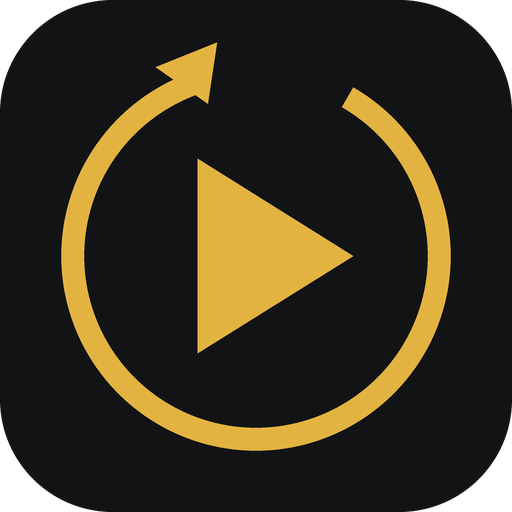
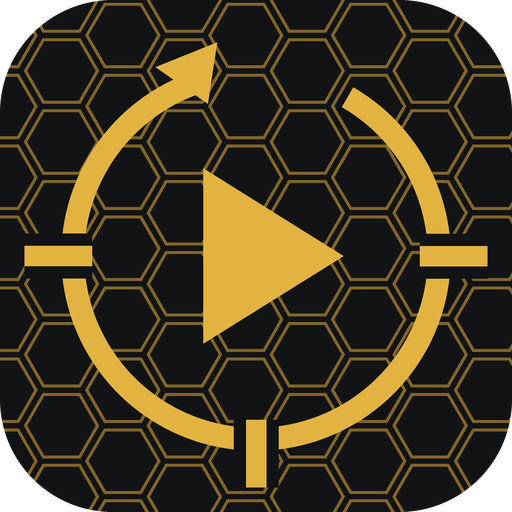
Nouveau nom (VitaCS Replays) et nouvelle icône
Claude-Session: https://claude.ai/code/session_016W72g8RZw3233aXjoM7bYN

Changed region(s): [[0.0, 0.0, 1.0, 1.0]]

diff --git a/index.html b/index.html
@@ -8,7 +8,7 @@
 <link rel="icon" href="icons/icon-192.png" type="image/png">
 <link rel="apple-touch-icon" href="icons/apple-touch-icon.png">
 <meta name="theme-color" content="#121315">
-<title>Replays Vitality</title>
+<title>VitaCS Replays</title>
 <script>
   // Anciens liens du lecteur (index.html?v=...) : redirection vers player.html
   if (/[?&]v=/.test(location.search)) location.replace("player.html" + location.search);
@@ -134,7 +134,7 @@ body.watching.wide .reopen { display: block; position: fixed; right: max(8px, en
 <main>
   <header>
     <div class="eyebrow">CS2 · sans spoiler</div>
-    <h1>Replays Vitality</h1>
+    <h1>VitaCS Replays</h1>
     <p class="lede">Les matchs à venir et les liens Twitch des replays, calés au début de la rencontre. Aucun score, aucun adversaire, aucune phase.</p>
     <div class="status" id="status">Chargement…</div>
     <div class="account" id="account"></div>

diff --git a/player.html b/player.html
@@ -8,7 +8,7 @@
 <link rel="icon" href="icons/icon-192.png" type="image/png">
 <link rel="apple-touch-icon" href="icons/apple-touch-icon.png">
 <meta name="theme-color" content="#121315">
-<title>Replay sans spoiler</title>
+<title>VitaCS Replays · lecteur</title>
 <style>
   :root {
     --bg: #0d0e10; --panel: #17181c; --fg: #ecebe6; --muted: #8f929a; --line: #2a2c31; --accent: #e3b341; --accent-ink: #17181b;
@@ -121,7 +121,7 @@
   La durée totale de la vidéo n'est jamais affichée.
 </p>
 
-<p class="empty" id="empty" hidden>Ouvre ce lecteur depuis la page Replays Vitality : il faut un lien de la forme <code>?v=&lt;id de la vidéo&gt;&amp;t=1h02m03s</code>.</p>
+<p class="empty" id="empty" hidden>Ouvre ce lecteur depuis la page VitaCS Replays : il faut un lien de la forme <code>?v=&lt;id de la vidéo&gt;&amp;t=1h02m03s</code>.</p>
 
 <script>
 (function () {

diff --git a/sync.js b/sync.js
@@ -77,7 +77,7 @@ async function initMessaging(app) {
     // Page ouverte : Firebase ne montre rien tout seul, on affiche la notification nous-mêmes
     mM.onMessage(messaging, async (p) => {
       const d = p.data || {}; const reg = await swRegister();
-      if (reg && Notification.permission === "granted") reg.showNotification(d.title || "Replays Vitality", { body: d.body || "", icon: "icons/icon-192.png", tag: d.tag || undefined, data: { link: d.link || location.href } });
+      if (reg && Notification.permission === "granted") reg.showNotification(d.title || "VitaCS Replays", { body: d.body || "", icon: "icons/icon-192.png", tag: d.tag || undefined, data: { link: d.link || location.href } });
     });
   } catch (e) {}
 }

diff --git a/firebase-messaging-sw.js b/firebase-messaging-sw.js
@@ -13,7 +13,7 @@ firebase.initializeApp({
 const messaging = firebase.messaging();
 messaging.onBackgroundMessage((p) => {
   const d = p.data || {};
-  return self.registration.showNotification(d.title || "Replays Vitality", {
+  return self.registration.showNotification(d.title || "VitaCS Replays", {
     body: d.body || "", icon: "icons/icon-192.png", tag: d.tag || undefined, data: { link: d.link || self.registration.scope }
   });
 });
